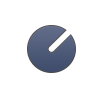
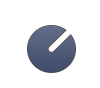
working circular mask

diff --git a/leapsynth/CSControls/CSKnob.m b/leapsynth/CSControls/CSKnob.m
@@ -14,17 +14,16 @@
 {
     self = [super initWithFrame:frame];
     if (self) {
-        image = [NSImage imageNamed:@"csknob_knob.png"];
-        
-        NSMutableParagraphStyle *style = [[NSMutableParagraphStyle alloc] init];
-        [style setAlignment:NSCenterTextAlignment];
-        labelAttributes = [NSDictionary dictionaryWithObject:style forKey:NSParagraphStyleAttributeName];
-        
+        knobImage = [NSImage imageNamed:@"knob_dial"];
+        trackImage = [NSImage imageNamed:@"knob_outerRing_empty"];
+        fillImage = [NSImage imageNamed:@"knob_outerRing_full"];
+
+        knobSize = [knobImage size];
+        trackSize = [trackImage size];
+
         minValue = 0;
         maxValue = 1.0;
         
-        NSRect bounds = [self bounds];
-        labelRect = NSMakeRect(0, bounds.size.height/2- kLabelHeight/2, bounds.size.width, kLabelHeight);
     }
     
     return self;
@@ -33,40 +32,65 @@
 - (void)setDoubleValue:(double)newValue
 {
     [super setDoubleValue:newValue];
-    
-    label = [NSString stringWithFormat:@"%.2f", value];
     [self setNeedsDisplay:YES];
 }
 
 
 - (void)drawRect:(NSRect)dirtyRect
 {
-    CGRect bounds = [self bounds];
-    NSAffineTransform *rotate = [[NSAffineTransform alloc] init];
     NSGraphicsContext *context = [NSGraphicsContext currentContext];
+    CGRect bounds = [self bounds];
+    double rads = [self normalizeValue] * kRadianRange - kKnobRangeMin;
+
+    
+    //draw empty track
+    [context saveGraphicsState];
+    [trackImage drawInRect:bounds
+                  fromRect:NSMakeRect(0,0, [trackImage size].width, [trackImage size].height)
+                 operation:NSCompositeSourceOver
+                  fraction:1.0];
+    
+    
+    //build the mask
+    NSBezierPath *maskPath = [[NSBezierPath alloc] init];
+    NSPoint center = NSMakePoint(bounds.size.width/2,bounds.size.height/2);
+    [maskPath setLineWidth:6.0];
+    [maskPath moveToPoint:center];
+    [maskPath appendBezierPathWithArcWithCenter:center
+                                         radius:bounds.size.width/2 
+                                     startAngle:-rads*(180/M_PI)
+                                       endAngle:240
+                                      clockwise:NO];
+    [maskPath closePath];
+
+    //draw the fill clipped with mask
+    [maskPath addClip];
+    [fillImage drawInRect:bounds
+                  fromRect:NSMakeRect(0,0, [trackImage size].width, [trackImage size].height)
+                 operation:NSCompositeSourceOver
+                  fraction:1.0];
+    
+    [context restoreGraphicsState];
+
+    
     
     //draw rotated knob
     [context saveGraphicsState];
-    [rotate translateXBy:bounds.size.width/2 yBy:bounds.size.height/2];
-    double rads = [self normalizeValue] * kRadianRange - kKnobRangeMin;
+    
+    NSAffineTransform *rotate = [[NSAffineTransform alloc] init];
+    [rotate translateXBy:knobSize.width/2 yBy:knobSize.height/2];
     [rotate rotateByRadians:-rads];
-    [rotate translateXBy:-(bounds.size.width/2) yBy:-(bounds.size.height/2)];
+    [rotate translateXBy:-(knobSize.width/2) yBy:-(knobSize.height/2)];
     [rotate concat];
     
-    [image drawInRect:bounds
-             fromRect:NSMakeRect(0, 0, [image size].width, [image size].height)
+    [knobImage drawInRect:NSMakeRect((bounds.size.width - knobSize.width)/2,
+                                     (bounds.size.height - knobSize.height)/2, 
+                                     knobSize.height, knobSize.width)
+             fromRect:NSMakeRect(0, 0, [knobImage size].width, [knobImage size].height)
             operation:NSCompositeSourceOver
              fraction:1.0];
     [context restoreGraphicsState];
     
-    //draw label if dragging
-    if (dragging) {
-        [context saveGraphicsState];
-        
-        [[NSColor redColor] set];
-        [label drawInRect:labelRect withAttributes:labelAttributes];
-        [context restoreGraphicsState];
-    }
 }
 
 - (void)mouseDown:(NSEvent *)theEvent

diff --git a/leapsynth/CSControls/CSKnob.h b/leapsynth/CSControls/CSKnob.h
@@ -22,11 +22,11 @@
 
 @interface CSKnob : CSControl
 {
-    NSImage *image;
-    
-    NSString *label;
-    NSDictionary *labelAttributes;
-    NSRect labelRect;
+    NSImage *knobImage;
+    NSImage *trackImage;
+    NSImage *fillImage;
+
+    NSSize knobSize, trackSize;
     
     NSPoint lastDragPoint;
     BOOL dragging;
